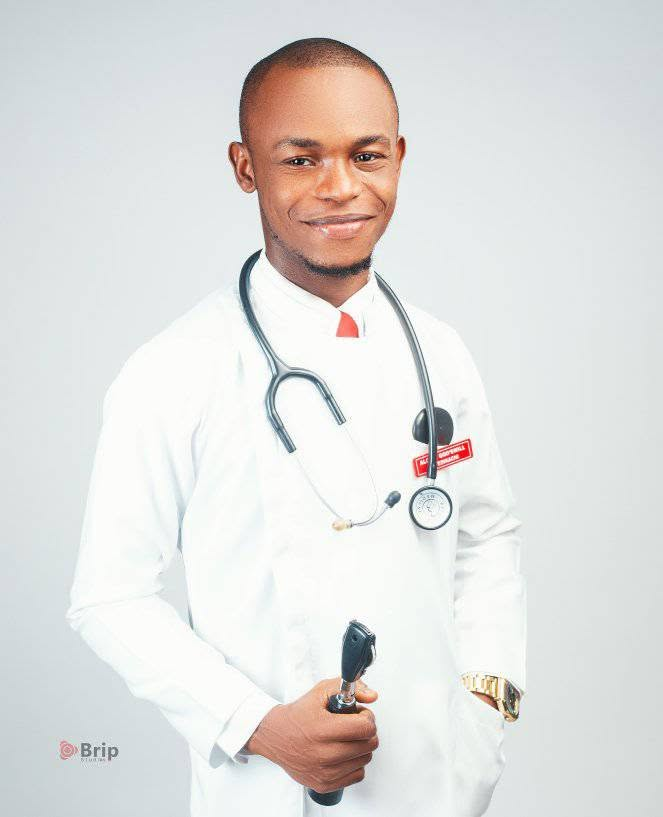
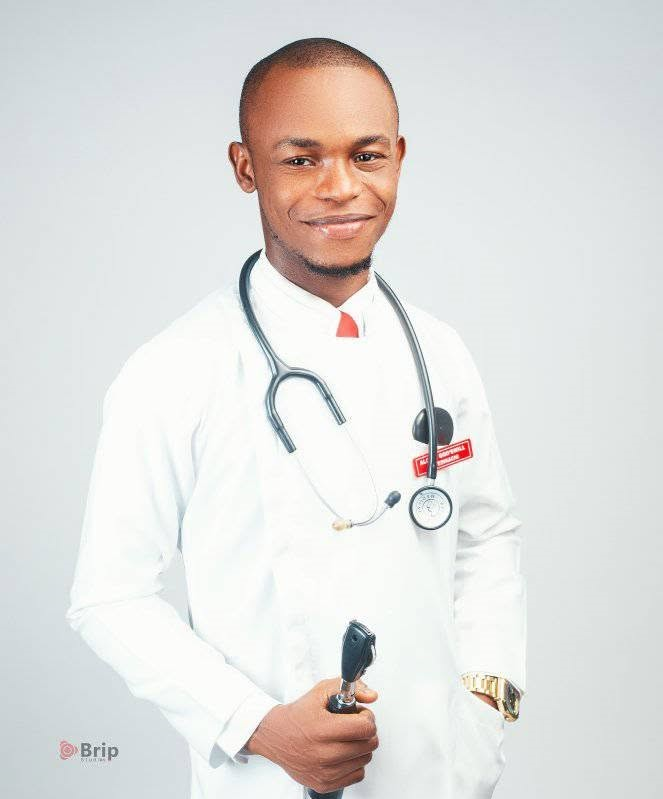
updated components

diff --git a/src/components/layout/Footer.tsx b/src/components/layout/Footer.tsx
@@ -1,4 +1,3 @@
-
 import Link from "next/link";
 import Image from "next/image";
 import {
@@ -159,43 +158,55 @@ export default function Footer() {
         </div>
 
         {/* EarthServe brand identity */}
-        <div className="mx-auto mt-9 flex max-w-6xl flex-row items-stretch overflow-hidden border-y-[3px] border-black/80 bg-white shadow-lg sm:mt-14">
+          <div className="relative left-1/2 mt-9 w-screen -translate-x-1/2 overflow-hidden border-y-[3px] border-black/80 shadow-lg sm:mt-14">
 
-          {/* Black square with original logo */}
-          <Link
-            href="/"
-            aria-label="EarthServe Foundation home"
-            className="flex aspect-square w-[30%] max-w-52 shrink-0 items-center justify-center bg-black p-2 transition hover:bg-[#101010] sm:w-52 sm:p-5 md:w-64"
-          >
-            <div className="relative h-full w-full max-h-36 max-w-36 sm:max-h-40 sm:max-w-40 md:max-h-44 md:max-w-44">
-              <Image
-                src="/images/earthservelogo.png"
-                alt="EarthServe Foundation logo"
-                fill
-                sizes="(min-width: 768px) 176px, 30vw"
-                className="object-contain"
-              />
+            {/* Full-width split background */}
+            <div className="absolute inset-0 grid grid-cols-2">
+              <div className="bg-black" />
+              <div className="bg-white" />
             </div>
-          </Link>
 
-          {/* White brand lettering section */}
-          <div className="flex min-w-0 flex-1 flex-col items-center justify-center px-1 py-4 sm:min-h-52 sm:px-6 sm:py-9">
-            <span
-              className="text-3xl font-black leading-none tracking-tight text-[#83C923] sm:text-6xl md:text-7xl"
-              style={{
-                WebkitTextStroke: "1px #080808",
-                paintOrder: "stroke fill",
-                textShadow: "2px 3px 0px #080808",
-              }}
-            >
-              EarthServe
-            </span>
+            {/* Centered brand content */}
+            <div className="relative mx-auto flex w-full max-w-4xl flex-row items-stretch justify-center">
 
-            <span className="mt-2 text-center text-[10px] font-black uppercase tracking-tight text-[#171717] sm:mt-3 sm:text-2xl md:text-3xl">
-              Foundation International
-            </span>
+              {/* Black logo section */}
+              <Link
+                href="/"
+                aria-label="EarthServe Foundation home"
+                className="flex aspect-square w-[30%] max-w-52 shrink-0 items-center justify-center bg-black p-2 transition hover:bg-[#101010] sm:w-52 sm:p-5 md:w-64"
+              >
+                <div className="relative h-full w-full max-h-36 max-w-36 sm:max-h-40 sm:max-w-40 md:max-h-44 md:max-w-44">
+                  <Image
+                    src="/images/earthservelogo.png"
+                    alt="EarthServe Foundation logo"
+                    fill
+                    sizes="(min-width: 768px) 176px, 30vw"
+                    className="object-contain"
+                  />
+                </div>
+              </Link>
+
+              {/* White lettering section */}
+              <div className="flex min-w-0 flex-1 flex-col items-center justify-center self-stretch bg-white px-1 py-4 sm:min-h-52 sm:px-6 sm:py-9">
+                <span
+                  className="text-3xl font-black leading-none tracking-tight text-[#83C923] sm:text-6xl md:text-7xl"
+                  style={{
+                    WebkitTextStroke: "2px #080808",
+                    paintOrder: "stroke fill",
+                    textShadow:
+                      "0 0 3px #ffffff, 0 0 6px #ffffff, 0 0 10px #ffffff, 2px 3px 0px #080808",
+                  }}
+                >
+                  EarthServe
+                </span>
+
+                <span className="mt-2 text-center text-[10px] font-black uppercase tracking-tight text-[#171717] sm:mt-3 sm:text-2xl md:text-3xl">
+                  Foundation International
+                </span>
+              </div>
+
+            </div>
           </div>
-        </div>
 
         {/* Official clickable focus statements */}
         <div className="mx-auto mt-5 flex max-w-5xl flex-col items-center gap-2 text-[10px] font-medium leading-relaxed sm:mt-7 sm:gap-3 sm:text-xl md:text-2xl">

diff --git a/src/components/layout/Navbar.tsx b/src/components/layout/Navbar.tsx
@@ -25,17 +25,18 @@ function BrandName() {
   return (
     <div className="flex min-w-0 flex-col justify-center">
       <span
-        className="whitespace-nowrap text-xl font-black leading-none tracking-tight text-[#83C923] sm:text-2xl lg:text-3xl"
+        className="whitespace-nowrap text-xl font-black leading-none tracking-tight text-[#91D52B] sm:text-2xl lg:text-3xl"
         style={{
-          WebkitTextStroke: "1px #080808",
+          WebkitTextStroke: "1.8px #000000",
           paintOrder: "stroke fill",
-          textShadow: "1.5px 2px 0px #080808",
+          textShadow:
+            "0 0 3px #ffffff, 0 0 6px #ffffff, 0 0 10px #ffffff, 2px 2px 0px #000000",
         }}
       >
         EarthServe
       </span>
 
-      <span className="mt-1.5 whitespace-nowrap text-[9px] font-black uppercase tracking-tight text-[#171717] sm:text-xs lg:text-sm">
+      <span className="mt-1.5 whitespace-nowrap text-[9px] font-black uppercase tracking-tight text-white sm:text-xs lg:text-sm">
         Foundation International
       </span>
     </div>
@@ -47,7 +48,7 @@ function BrandLogo() {
     <Link
       href="/"
       aria-label="EarthServe Foundation International home"
-      className="flex h-14 w-14 shrink-0 items-center justify-center bg-black p-1.5 sm:h-16 sm:w-16 lg:h-[76px] lg:w-[76px]"
+      className="flex h-20 w-20 shrink-0 items-center justify-center bg-black p-0.5 sm:h-24 sm:w-24 lg:h-28 lg:w-28"
     >
       <div className="relative h-full w-full">
         <Image
@@ -55,7 +56,7 @@ function BrandLogo() {
           alt="EarthServe logo"
           fill
           priority
-          sizes="76px"
+          sizes="112px"
           className="object-contain"
         />
       </div>
@@ -93,7 +94,7 @@ export default function Navbar() {
   const [menuOpen, setMenuOpen] = useState(false);
 
   return (
-    <header className="sticky top-0 z-50 border-b border-earth-100 bg-white/95 shadow-sm backdrop-blur-md">
+    <header className="sticky top-0 z-50 border-b border-white/20 bg-black shadow-[0_3px_12px_rgba(255,255,255,0.12)] backdrop-blur-md">
       <nav
         aria-label="Main navigation"
         className="mx-auto flex max-w-7xl items-center justify-between gap-2 px-3 py-2 sm:px-5 lg:px-8 lg:py-3"
@@ -110,7 +111,7 @@ export default function Navbar() {
             <Link
               key={link.href}
               href={link.href}
-              className="whitespace-nowrap text-sm font-semibold text-earth-800 transition hover:text-[#83C923]"
+              className="whitespace-nowrap text-sm font-semibold text-white transition hover:text-[#91D52B]"
             >
               {link.label}
             </Link>
@@ -135,7 +136,7 @@ export default function Navbar() {
             aria-expanded={menuOpen}
             aria-controls="mobile-navigation"
             onClick={() => setMenuOpen(!menuOpen)}
-            className="flex h-10 w-10 shrink-0 items-center justify-center rounded-lg border border-earth-100 text-earth-800 transition hover:bg-earth-50"
+            className="flex h-10 w-10 shrink-0 items-center justify-center rounded-lg border border-white/30 text-white transition hover:bg-white/10"
           >
             {menuOpen ? <X size={23} /> : <Menu size={23} />}
           </button>
@@ -146,7 +147,7 @@ export default function Navbar() {
       {menuOpen && (
         <div
           id="mobile-navigation"
-          className="border-t border-earth-100 bg-white px-4 pb-5 pt-3 shadow-lg lg:hidden"
+          className="border-t border-white/20 bg-black px-4 pb-5 pt-3 shadow-lg lg:hidden"
         >
           <div className="mx-auto flex max-w-7xl flex-col">
             {navLinks.map((link) => (
@@ -154,7 +155,7 @@ export default function Navbar() {
                 key={link.href}
                 href={link.href}
                 onClick={() => setMenuOpen(false)}
-                className="border-b border-earth-50 py-3.5 text-sm font-semibold text-earth-800 transition hover:text-[#83C923]"
+                className="border-b border-white/10 py-3.5 text-sm font-semibold text-white transition hover:text-[#91D52B]"
               >
                 {link.label}
               </Link>

diff --git a/src/components/sections/OperationalTeam.tsx b/src/components/sections/OperationalTeam.tsx
@@ -21,7 +21,7 @@ const teamMembers = [
     role: "Board Member",
     description:
       "An expert in Nutrition and Toxicology, bringing specialist knowledge to the foundation's work.",
-    image: "/images/emeke.jpg",
+    image: "/images/dr emeke.jpg",
   },
   {
     name: "Dr. Godswill O. Alozie",
